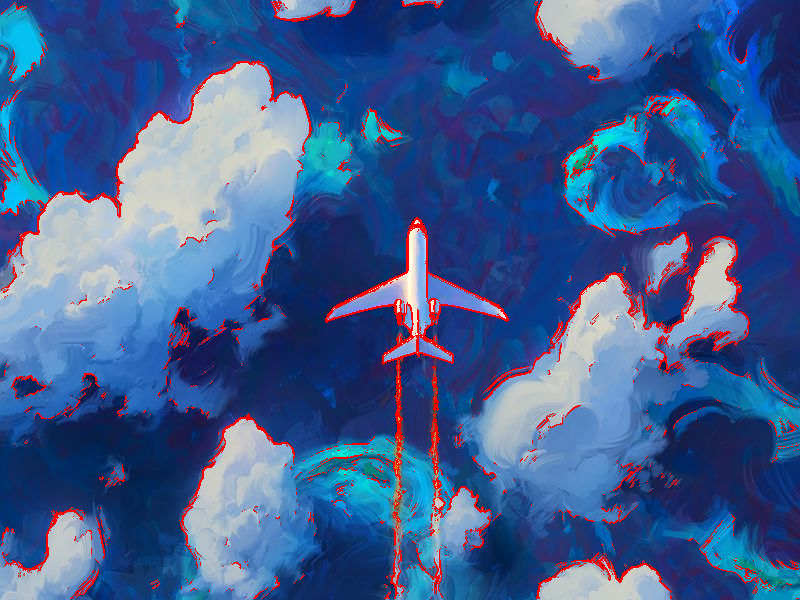
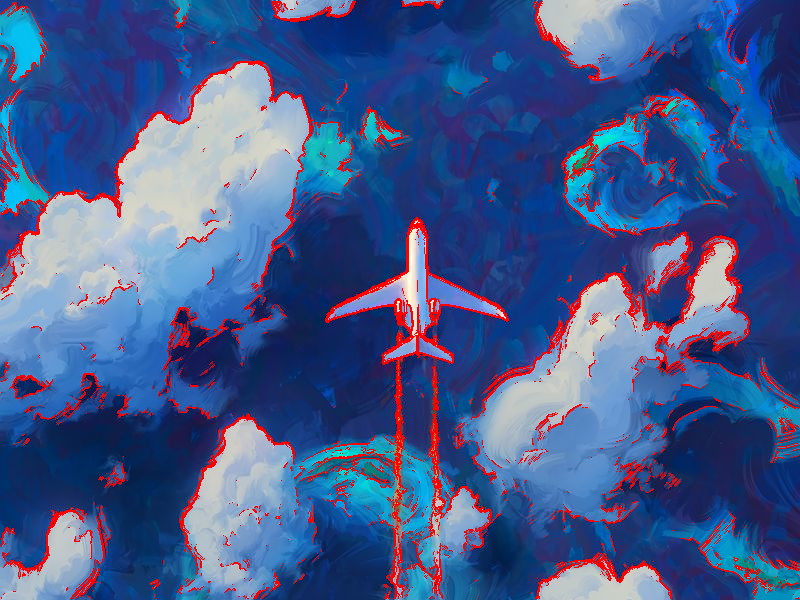
Demo image

diff --git a/src/main.cc b/src/main.cc
@@ -9,16 +9,15 @@ int main() {
     ImageTools::Image image = ImageTools::loadPNG("test.png");
 
     // Edges
-    double tau1 = 0.06; // 0 <= tau <= 1
-    EdgeDetector edgeDetector(image, tau1);
+    double tau = 0.045; // 0 <= tau <= 1
+    EdgeDetector edgeDetector(image, tau);
     edgeDetector.applyFilter();
 
     // Save output
     ImageTools::savePNG(edgeDetector.getOutputImage(), "output.png");
 
     // EDGE-DETECTOR-COLOR: edge-> r, g, b, else -> original color
-    double tau2 = 0.06; // 0 <= tau <= 1
-    EdgeDetectorColor edgeDetectorColor(image, tau2);
+    EdgeDetectorColor edgeDetectorColor(image, tau);
     edgeDetectorColor.applyFilter(255, 0, 0);    // Border color red
 
     // Save output
